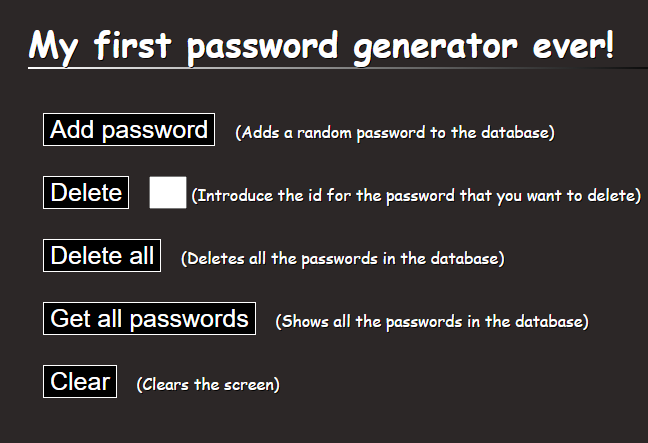
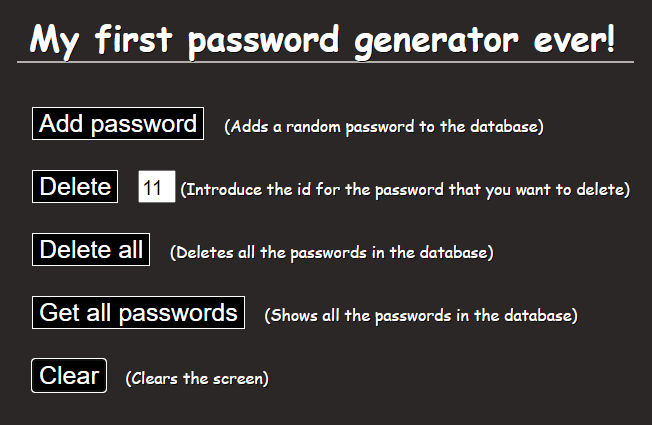
border aspect

diff --git a/src/main/resources/static/style.css b/src/main/resources/static/style.css
@@ -34,12 +34,9 @@ button {
 
 h2 {
     font-size: 35px;
-    border-bottom: 2px solid transparent;
-    border-image: linear-gradient(to right,
-            rgb(255, 255, 255),
-            rgb(0, 0, 0));
-    border-image-slice: 1;
-    width: 73%;
+    border-bottom: 2px solid rgb(180, 174, 174);
+    width: 68%;
+    padding-left: 12px;
 
 }
 
